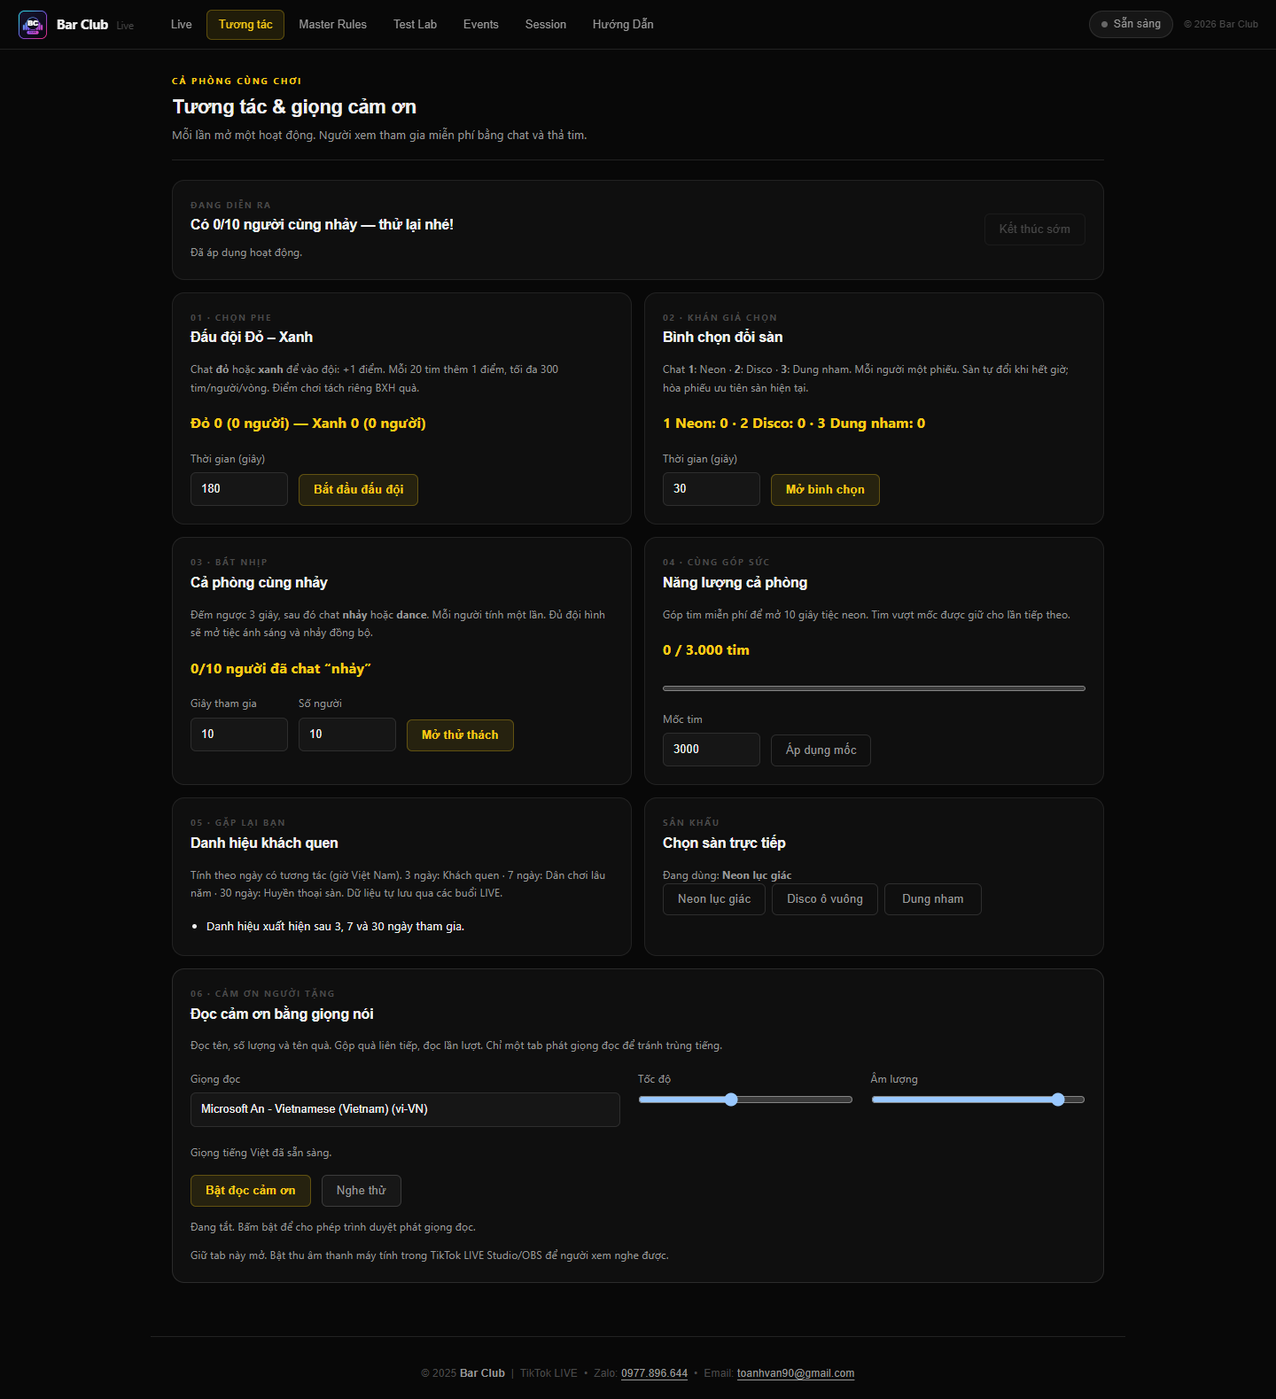
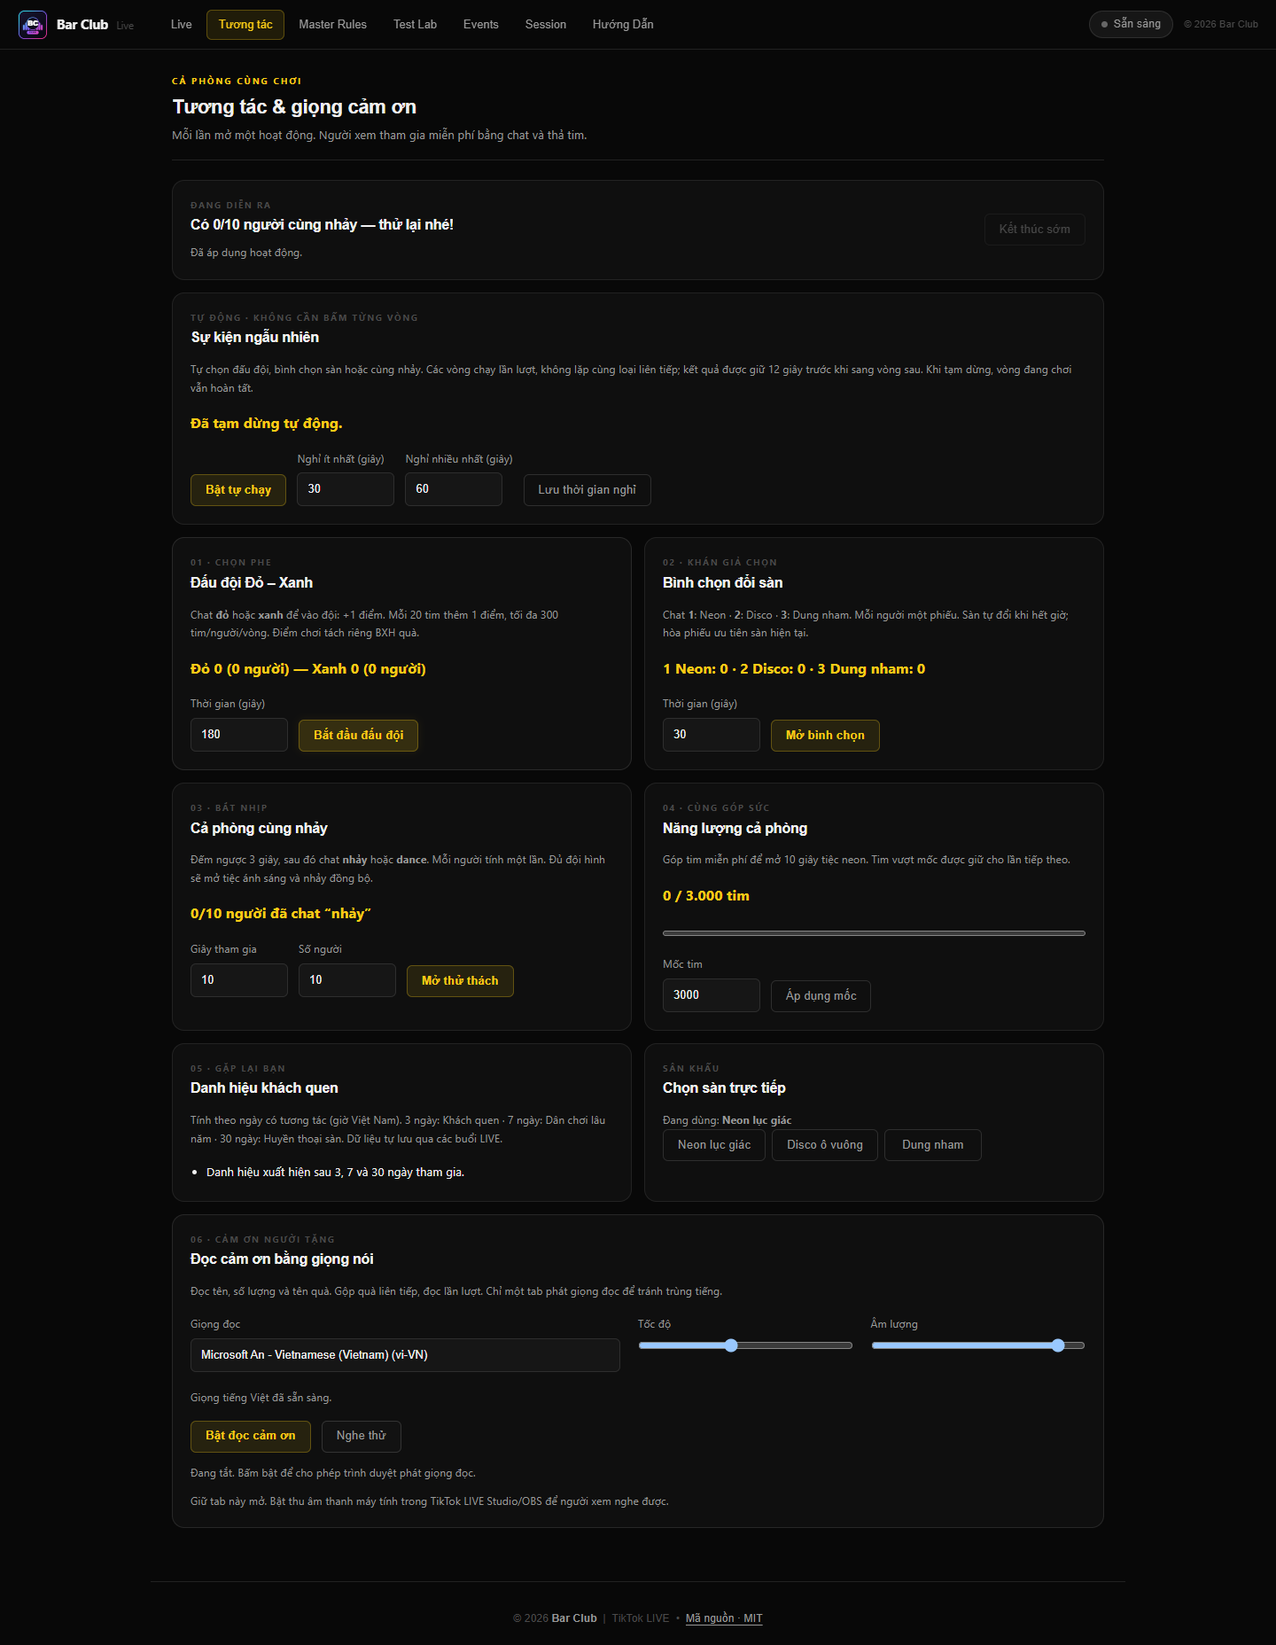
feat: automatically rotate live audience events

diff --git a/TikTokBridge/src/engagement.js b/TikTokBridge/src/engagement.js
@@ -56,9 +56,10 @@ class ViewerStore {
 }
 
 class EngagementEngine {
-    constructor({ store = new ViewerStore(), config = {}, now = Date.now } = {}) {
+    constructor({ store = new ViewerStore(), config = {}, now = Date.now, random = Math.random } = {}) {
         this.store = store;
         this.now = now;
+        this.random = random;
         this.config = {
             battleSeconds: number(config.battleSeconds, 180, 30, 600),
             voteSeconds: number(config.voteSeconds, 30, 10, 120),
@@ -67,6 +68,9 @@ class EngagementEngine {
             energyGoal: number(config.energyGoal, 2000, 100, 100000)
         };
         this.floorTheme = THEMES.includes(config.floorTheme) ? config.floorTheme : 'neon';
+        const minGapSeconds = number(config.autoMinGapSeconds, 30, 15, 600);
+        this.auto = { enabled: config.autoEnabled === true, minGapSeconds,
+            maxGapSeconds: number(config.autoMaxGapSeconds, 60, minGapSeconds, 900), nextAt: 0 };
         this.members = new Map();
         this.reset();
     }
@@ -81,12 +85,15 @@ class EngagementEngine {
         for (const member of this.members.values()) member.team = '';
         this.lastResult = '';
         this.resultUntil = 0;
+        this.autoQueue = [];
+        this.lastAutoActivity = '';
+        this.auto.nextAt = this.auto.enabled ? this.now() + 15000 : 0;
         this.revision = (this.revision || 0) + 1;
     }
 
     command(action, options = {}) {
         const now = this.now();
-        this.tick(now);
+        this.tick(now, false);
         if (action === 'floor_set') {
             if (!THEMES.includes(options.theme)) throw new Error('Mẫu sàn không hợp lệ.');
             this.floorTheme = options.theme;
@@ -94,31 +101,61 @@ class EngagementEngine {
             this.config.energyGoal = number(options.goal, 2000, 100, 100000);
             this.energy.goal = this.config.energyGoal;
             this.energy.value = Math.min(this.energy.value, this.energy.goal - 1);
+        } else if (action === 'auto_config') {
+            if (typeof options.enabled === 'boolean') this.auto.enabled = options.enabled;
+            this.auto.minGapSeconds = number(options.minGapSeconds, this.auto.minGapSeconds, 15, 600);
+            this.auto.maxGapSeconds = number(options.maxGapSeconds, this.auto.maxGapSeconds, this.auto.minGapSeconds, 900);
+            this.auto.nextAt = this.auto.enabled && !this.activity ? Math.max(this.resultUntil, now + 15000) : 0;
         } else if (action === 'activity_stop') {
             this.finish(now);
         } else {
-            if (this.activity) throw new Error('Hãy kết thúc hoạt động hiện tại trước.');
-            this.lastResult = ''; this.resultUntil = 0;
-            for (const item of [this.battle, this.vote, this.dance]) if (item.status === 'results') item.status = 'idle';
-            if (action === 'battle_start') {
-                this.teams.clear(); this.battleLikes.clear();
-                for (const member of this.members.values()) member.team = '';
-                this.activity = 'battle';
-                this.battle = { status: 'running', red: 0, blue: 0, redMembers: 0, blueMembers: 0,
-                    endsAt: now + number(options.seconds, this.config.battleSeconds, 30, 600) * 1000, winner: '' };
-            } else if (action === 'vote_start') {
-                this.ballots.clear(); this.activity = 'vote';
-                this.vote = { status: 'running', neon: 0, disco: 0, lava: 0,
-                    endsAt: now + number(options.seconds, this.config.voteSeconds, 10, 120) * 1000, winner: '' };
-            } else if (action === 'dance_start') {
-                this.dancers.clear(); this.activity = 'dance';
-                this.dance = { status: 'countdown', startsAt: now + 3000,
-                    endsAt: now + 3000 + number(options.seconds, this.config.danceSeconds, 5, 60) * 1000,
-                    count: 0, target: number(options.target, this.config.danceTarget, 1, 400), success: false };
-            } else throw new Error('Hoạt động không hợp lệ.');
+            this.begin(action, options, now);
         }
         this.revision++;
         return this.snapshot(now);
+    }
+
+    begin(action, options, now) {
+        if (!['battle_start', 'vote_start', 'dance_start'].includes(action)) throw new Error('Hoạt động không hợp lệ.');
+        if (this.activity) throw new Error('Hãy kết thúc hoạt động hiện tại trước.');
+        this.auto.nextAt = 0;
+        this.lastResult = ''; this.resultUntil = 0;
+        for (const item of [this.battle, this.vote, this.dance]) if (item.status === 'results') item.status = 'idle';
+        if (action === 'battle_start') {
+            this.teams.clear(); this.battleLikes.clear();
+            for (const member of this.members.values()) member.team = '';
+            this.activity = 'battle';
+            this.battle = { status: 'running', red: 0, blue: 0, redMembers: 0, blueMembers: 0,
+                endsAt: now + number(options.seconds, this.config.battleSeconds, 30, 600) * 1000, winner: '' };
+        } else if (action === 'vote_start') {
+            this.ballots.clear(); this.activity = 'vote';
+            this.vote = { status: 'running', neon: 0, disco: 0, lava: 0,
+                endsAt: now + number(options.seconds, this.config.voteSeconds, 10, 120) * 1000, winner: '' };
+        } else if (action === 'dance_start') {
+            this.dancers.clear(); this.activity = 'dance';
+            this.dance = { status: 'countdown', startsAt: now + 3000,
+                endsAt: now + 3000 + number(options.seconds, this.config.danceSeconds, 5, 60) * 1000,
+                count: 0, target: number(options.target, this.config.danceTarget, 1, 400), success: false };
+        }
+    }
+
+    nextAutomaticActivity() {
+        if (!this.autoQueue.length) {
+            this.autoQueue = ['battle_start', 'vote_start', 'dance_start'];
+            for (let index = this.autoQueue.length - 1; index > 0; index--) {
+                const selected = Math.floor(this.random() * (index + 1));
+                [this.autoQueue[index], this.autoQueue[selected]] = [this.autoQueue[selected], this.autoQueue[index]];
+            }
+            if (this.autoQueue[0] === this.lastAutoActivity)
+                [this.autoQueue[0], this.autoQueue[1]] = [this.autoQueue[1], this.autoQueue[0]];
+        }
+        this.lastAutoActivity = this.autoQueue.shift();
+        return this.lastAutoActivity;
+    }
+
+    settings() {
+        return { floorTheme: this.floorTheme, energyGoal: this.energy.goal, autoEnabled: this.auto.enabled,
+            autoMinGapSeconds: this.auto.minGapSeconds, autoMaxGapSeconds: this.auto.maxGapSeconds };
     }
 
     process(event) {
@@ -190,10 +227,14 @@ class EngagementEngine {
         }
         this.activity = '';
         this.resultUntil = now + 12000;
+        if (this.auto.enabled) {
+            const seconds = this.auto.minGapSeconds + Math.floor(this.random() * (this.auto.maxGapSeconds - this.auto.minGapSeconds + 1));
+            this.auto.nextAt = now + seconds * 1000;
+        }
         this.revision++;
     }
 
-    tick(now = this.now()) {
+    tick(now = this.now(), runAuto = true) {
         if (this.activity === 'dance' && this.dance.status === 'countdown' && now >= this.dance.startsAt) {
             this.dance.status = 'running'; this.revision++;
         }
@@ -203,11 +244,18 @@ class EngagementEngine {
             for (const item of [this.battle, this.vote, this.dance]) if (item.status === 'results') item.status = 'idle';
             this.revision++;
         }
+        if (runAuto && this.auto.enabled && !this.activity && this.auto.nextAt && now >= this.auto.nextAt && now >= this.resultUntil) {
+            const action = this.nextAutomaticActivity();
+            const target = Math.min(this.config.danceTarget, Math.max(2, this.members.size));
+            this.begin(action, { target }, now);
+            this.revision++;
+        }
     }
 
     snapshot(now = this.now()) {
         return { serverTime: now, revision: this.revision, activity: this.activity, floorTheme: this.floorTheme,
             battle: { ...this.battle }, vote: { ...this.vote }, dance: { ...this.dance }, energy: { ...this.energy },
+            auto: { ...this.auto },
             lastResult: this.lastResult, resultUntil: this.resultUntil, members: [...this.members.values()] };
     }
 }

diff --git a/TikTokBridge/public/engagement-control.js b/TikTokBridge/public/engagement-control.js
@@ -3,6 +3,7 @@
 const liveActivities = {
     state: null,
     receivedAt: 0,
+    autoInitialized: false,
     onOpen() { if (speechActive) send({ type: 'speech_claim', enabled: true }); },
     onMessage(data) {
         if (data.type === 'error') document.getElementById('engagement-message').textContent = data.message;
@@ -22,6 +23,19 @@ const liveActivities = {
         if (!state) return;
         const names = { battle: 'Đấu đội Đỏ – Xanh', vote: 'Bình chọn sàn', dance: 'Cả phòng cùng nhảy' };
         const active = state[state.activity];
+        if (state.auto) {
+            const auto = state.auto;
+            const next = Math.max(0, Math.ceil((auto.nextAt - state.serverTime - (Date.now() - this.receivedAt)) / 1000));
+            document.getElementById('auto-toggle').textContent = auto.enabled ? 'Tạm dừng tự chạy' : 'Bật tự chạy';
+            document.getElementById('auto-status').textContent = !auto.enabled ? 'Đã tạm dừng tự động.'
+                : state.activity ? 'Tự động đang bật · Vòng tiếp theo sẽ được chọn khi vòng này kết thúc.'
+                : `Tự động đang bật · Sự kiện tiếp theo sau ${next}s`;
+            if (!this.autoInitialized) {
+                document.getElementById('auto-min-gap').value = auto.minGapSeconds;
+                document.getElementById('auto-max-gap').value = auto.maxGapSeconds;
+                this.autoInitialized = true;
+            }
+        }
         const remaining = active ? Math.max(0, Math.ceil((active.endsAt - state.serverTime - (Date.now() - this.receivedAt)) / 1000)) : 0;
         document.getElementById('activity-status').textContent = state.activity ? `${names[state.activity]} · ${remaining}s` : state.lastResult || 'Sẵn sàng mở hoạt động';
         document.getElementById('battle-score').textContent = `Đỏ ${state.battle.red} (${state.battle.redMembers} người) — Xanh ${state.battle.blue} (${state.battle.blueMembers} người)`;
@@ -52,6 +66,12 @@ for (const button of document.querySelectorAll('[data-floor-theme]')) button.add
     send({ type: 'engagement_command', action: 'floor_set', theme: button.dataset.floorTheme }));
 document.getElementById('activity-stop').addEventListener('click', () => send({ type: 'engagement_command', action: 'activity_stop' }));
 document.getElementById('energy-save').addEventListener('click', () => send({ type: 'engagement_command', action: 'energy_goal', goal: Number(document.getElementById('energy-goal').value) }));
+document.getElementById('auto-toggle').addEventListener('click', () => send({ type: 'engagement_command', action: 'auto_config', enabled: !liveActivities.state?.auto?.enabled }));
+document.getElementById('auto-save').addEventListener('click', () => {
+    liveActivities.autoInitialized = false;
+    send({ type: 'engagement_command', action: 'auto_config',
+        minGapSeconds: Number(document.getElementById('auto-min-gap').value), maxGapSeconds: Number(document.getElementById('auto-max-gap').value) });
+});
 
 let speechActive = false;
 const synth = window.speechSynthesis;

diff --git a/TikTokBridge/test/engagement.test.js b/TikTokBridge/test/engagement.test.js
@@ -118,3 +118,47 @@ test('gift speech merges bursts, speaks sequentially, and stops without replay',
     queue.stop(); done[1](); assert.equal(queue.active, false);
     assert.equal(thanksText({ nickname: '<img>', repeatCount: 0 }), 'Cảm ơn img đã tặng 1 quà nhé!');
 });
+
+test('autoplay waits, opens one round, preserves results and respects its break', () => {
+    let time = 100000;
+    const engine = new EngagementEngine({ now: () => time, random: () => 0.99, config: { autoEnabled: true } });
+    time += 14999; engine.tick(); assert.equal(engine.activity, '');
+    time++; engine.tick(); assert.equal(engine.activity, 'battle');
+    assert.equal(engine.auto.nextAt, 0);
+    const end = engine.battle.endsAt;
+    time = end - 1; engine.tick(); assert.equal(engine.activity, 'battle');
+    time = end; engine.tick(); assert.equal(engine.battle.status, 'results');
+    const next = engine.auto.nextAt;
+    assert.ok(next >= time + 30000 && next <= time + 60000);
+    time += 11999; engine.tick(); assert.ok(engine.lastResult);
+    assert.equal(engine.activity, '');
+    time = next - 1; engine.tick(); assert.equal(engine.activity, '');
+    time++; engine.tick(); assert.notEqual(engine.activity, 'battle');
+    assert.notEqual(engine.activity, '');
+});
+
+test('autoplay rotates every kind and avoids repeating across shuffle boundaries', () => {
+    let time = 100000;
+    const engine = new EngagementEngine({ now: () => time, random: () => 0.99, config: { autoEnabled: true } });
+    const rounds = [];
+    for (let index = 0; index < 12; index++) {
+        time = engine.auto.nextAt; engine.tick(); rounds.push(engine.activity);
+        engine.command('activity_stop');
+    }
+    for (let index = 1; index < rounds.length; index++) assert.notEqual(rounds[index], rounds[index - 1]);
+    for (let index = 0; index < rounds.length; index += 3) assert.equal(new Set(rounds.slice(index, index + 3)).size, 3);
+});
+
+test('pausing autoplay lets the current round finish and settings survive reconstruction', () => {
+    let time = 100000;
+    const engine = new EngagementEngine({ now: () => time, config: { autoEnabled: true } });
+    engine.command('battle_start', { seconds: 30 });
+    engine.command('auto_config', { enabled: false, minGapSeconds: 40, maxGapSeconds: 65 });
+    assert.equal(engine.activity, 'battle'); assert.equal(engine.auto.nextAt, 0);
+    time += 30000; engine.tick(); assert.equal(engine.activity, '');
+    time += 1000000; engine.tick(); assert.equal(engine.activity, '');
+    const restored = new EngagementEngine({ config: engine.settings(), now: () => time });
+    assert.equal(restored.auto.enabled, false); assert.equal(restored.auto.minGapSeconds, 40);
+    restored.command('auto_config', { enabled: true });
+    time += 15000; restored.tick(); assert.notEqual(restored.activity, '');
+});

diff --git a/TikTokBridge/public/control.html b/TikTokBridge/public/control.html
@@ -261,6 +261,18 @@
         <button id="activity-stop" class="btn btn-secondary" disabled>Kết thúc sớm</button>
     </div>
     <div class="grid-2 engagement-grid">
+        <article class="card col-span-2">
+            <p class="card-label">Tự động · Không cần bấm từng vòng</p>
+            <h2 class="card-title">Sự kiện ngẫu nhiên</h2>
+            <p class="help">Tự chọn đấu đội, bình chọn sàn hoặc cùng nhảy. Các vòng chạy lần lượt, không lặp cùng loại liên tiếp; kết quả được giữ 12 giây trước khi sang vòng sau. Khi tạm dừng, vòng đang chơi vẫn hoàn tất.</p>
+            <p id="auto-status" class="activity-score" role="status">Đang kết nối…</p>
+            <div class="activity-controls">
+                <button id="auto-toggle" class="btn btn-gold">Tạm dừng tự chạy</button>
+                <label>Nghỉ ít nhất (giây)<input id="auto-min-gap" type="number" min="15" max="600" value="30"></label>
+                <label>Nghỉ nhiều nhất (giây)<input id="auto-max-gap" type="number" min="15" max="900" value="60"></label>
+                <button id="auto-save" class="btn btn-secondary">Lưu thời gian nghỉ</button>
+            </div>
+        </article>
         <article class="card">
             <p class="card-label">01 · Chọn phe</p><h2 class="card-title">Đấu đội Đỏ – Xanh</h2>
             <p class="help">Chat <strong>đỏ</strong> hoặc <strong>xanh</strong> để vào đội: +1 điểm. Mỗi 20 tim thêm 1 điểm, tối đa 300 tim/người/vòng. Điểm chơi tách riêng BXH quà.</p>

diff --git a/TikTokBridge/scripts/engagement-ui-smoke.js b/TikTokBridge/scripts/engagement-ui-smoke.js
@@ -13,6 +13,14 @@ const path = require('node:path');
         await page.goto(`${base}/control.html`);
         await page.getByRole('button', { name: 'Tương tác', exact: true }).click();
         await page.waitForFunction(() => window.liveActivities?.state);
+        if (await page.evaluate(() => window.liveActivities.state.auto?.enabled)) {
+            await page.getByRole('button', { name: 'Tạm dừng tự chạy', exact: true }).click();
+            await page.waitForFunction(() => !window.liveActivities.state.auto.enabled);
+        }
+        await page.locator('#auto-min-gap').fill('30');
+        await page.locator('#auto-max-gap').fill('60');
+        await page.getByRole('button', { name: 'Lưu thời gian nghỉ', exact: true }).click();
+        await page.waitForFunction(() => window.liveActivities.state.auto.minGapSeconds === 30 && window.liveActivities.state.auto.maxGapSeconds === 60);
         await page.getByRole('button', { name: 'Bắt đầu đấu đội', exact: true }).click();
         await page.waitForFunction(() => window.liveActivities.state.activity === 'battle');
         assert.equal(await page.getByRole('button', { name: 'Mở bình chọn', exact: true }).isDisabled(), true);

diff --git a/TikTokBridge/test/engagement-integration.test.js b/TikTokBridge/test/engagement-integration.test.js
@@ -72,6 +72,7 @@ test('bridge enforces activity permissions, filters gift streaks, avoids duplica
     assert.equal((await overlay.until(m => m.type === 'chat')).team, 'red');
     control.send({ type: 'speech_claim', enabled: true });
     await control.until(m => m.type === 'speech_status' && m.active);
+    control.send({ type: 'engagement_command', action: 'auto_config', enabled: false, minGapSeconds: 45, maxGapSeconds: 70 });
     control.send({ type: 'engagement_command', action: 'floor_set', theme: 'lava' });
     control.send({ type: 'engagement_command', action: 'energy_goal', goal: 500 });
     await overlay.until(m => m.type === 'engagement_state' && m.engagement.floorTheme === 'lava' && m.engagement.energy.goal === 500);
@@ -101,4 +102,7 @@ test('bridge enforces activity permissions, filters gift streaks, avoids duplica
     const activity = await restored.until(m => m.type === 'engagement_state');
     assert.equal(activity.engagement.floorTheme, 'lava');
     assert.equal(activity.engagement.energy.goal, 500);
+    assert.equal(activity.engagement.auto.enabled, false);
+    assert.equal(activity.engagement.auto.minGapSeconds, 45);
+    assert.equal(activity.engagement.auto.maxGapSeconds, 70);
 });

diff --git a/TikTokBridge/server.js b/TikTokBridge/server.js
@@ -805,9 +805,9 @@ async function handleClientMessage(ws, message) {
     if (message.type === 'engagement_command') {
         try {
             engagement.command(message.action, message);
-            if (message.action === 'floor_set' || message.action === 'energy_goal') {
+            if (['floor_set', 'energy_goal', 'auto_config'].includes(message.action)) {
                 await fs.mkdir(dataDir, { recursive: true });
-                await fs.writeFile(path.join(dataDir, 'engagement-settings.json'), JSON.stringify({ floorTheme: engagement.floorTheme, energyGoal: engagement.energy.goal }));
+                await fs.writeFile(path.join(dataDir, 'engagement-settings.json'), JSON.stringify(engagement.settings()));
             }
             broadcast(engagementMessage());
             return send(ws, { type: 'engagement_ack', message: 'Đã áp dụng hoạt động.' });

diff --git a/docs/testing/engagement-features.md b/docs/testing/engagement-features.md
@@ -2,7 +2,8 @@
 
 Các kiểm tra đã thực hiện cho bản Bar Club LIVE trong `Yuh266/bar-tiktok`:
 
-- `npm test`: 37 kiểm tra đạt, gồm module và kết nối WebSocket thực với một Bridge thử nghiệm riêng.
+- `npm test`: 40 kiểm tra đạt, gồm module và kết nối WebSocket thực với một Bridge thử nghiệm riêng.
+- Tự chạy: chờ 15 giây khi bật, nghỉ ngẫu nhiên giữa các vòng, trộn đủ ba loại, không lặp liên tiếp, không chồng vòng hoặc bỏ qua kết quả; tạm dừng không cắt vòng đang chơi, cài đặt được lưu qua lần khởi động lại.
 - Đấu đội: khóa đội đã chọn, giới hạn 300 tim/người/vòng, tự kết thúc và công bố kết quả; điểm quà không cộng vào điểm đội.
 - Bình chọn: mỗi người một phiếu, hết giờ tự chọn sàn, xử lý hòa phiếu.
 - Cùng nhảy: bỏ qua chat trước hiệu lệnh và chat lặp; xét số người duy nhất, cả trường hợp đủ/thiếu người.

diff --git a/README.md b/README.md
@@ -10,6 +10,8 @@
 
 Mở `http://127.0.0.1:3000/control.html` → **Tương tác** để điều khiển các hoạt động. Nhấn **F1** trong game để mở quản trị.
 
+**Tự động bật sẵn:** sự kiện đầu tiên xuất hiện sau khoảng 15 giây. Sau mỗi vòng, nghỉ ngẫu nhiên 30–60 giây rồi tự mở vòng mới. Đấu đội, bình chọn sàn và cùng nhảy được trộn thứ tự, không lặp cùng loại liên tiếp. Mỗi lúc chỉ có một vòng; không bỏ qua màn kết quả. Có thể tạm dừng hoặc chỉnh thời gian nghỉ trong mục **Sự kiện ngẫu nhiên**; thiết lập được nhớ khi khởi động lại.
+
 | Tính năng | Người xem tham gia | Kết quả |
 |---|---|---|
 | Đấu đội Đỏ – Xanh | Chat `đỏ` / `xanh`, thả tim | Vòng 3 phút, vòng sáng theo đội, đội thắng lên sân khấu |
